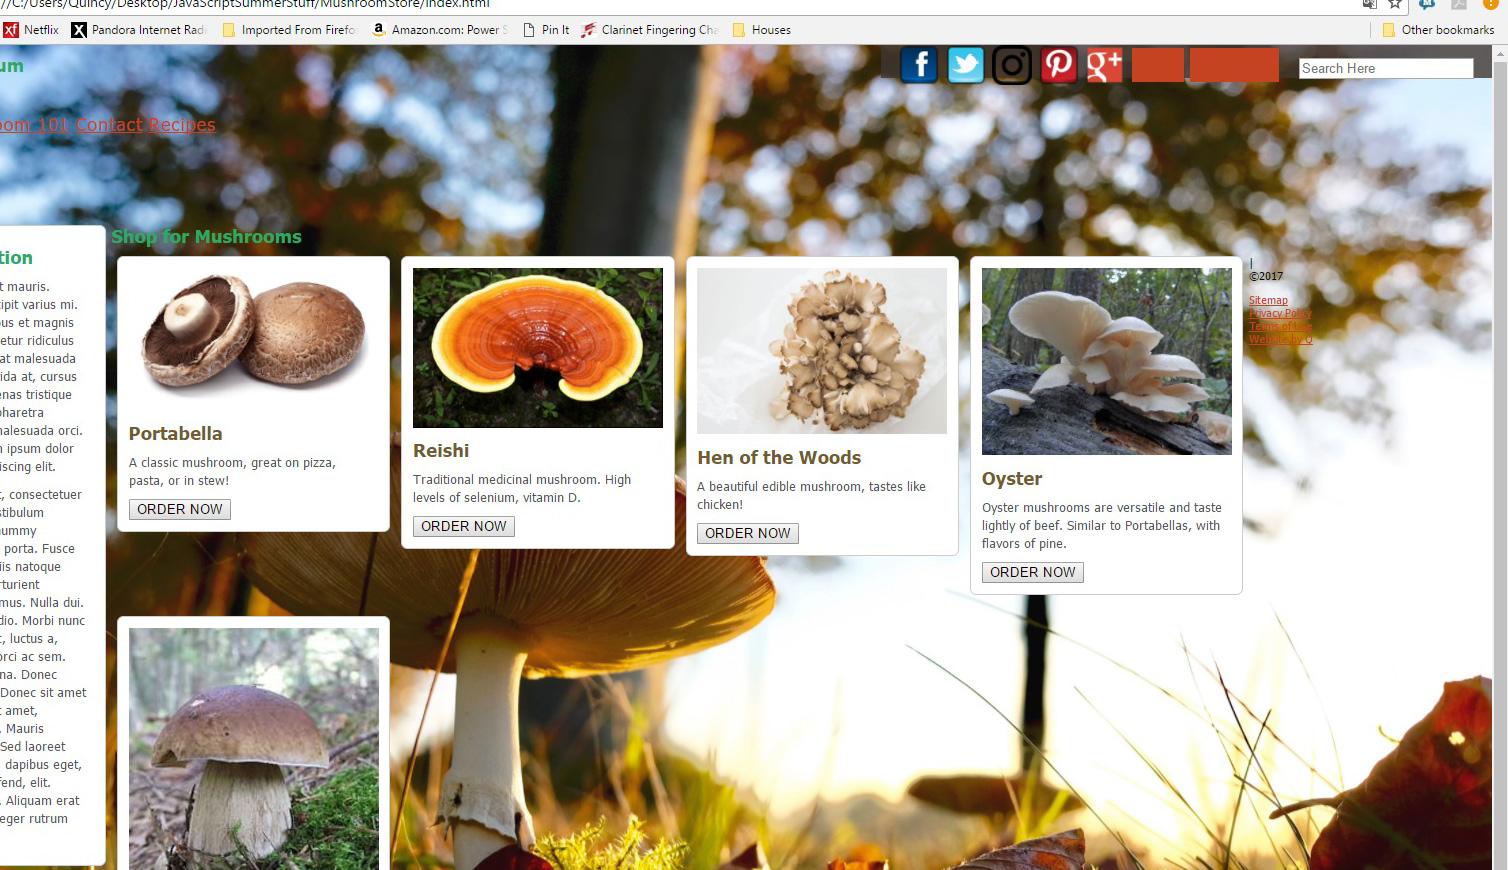
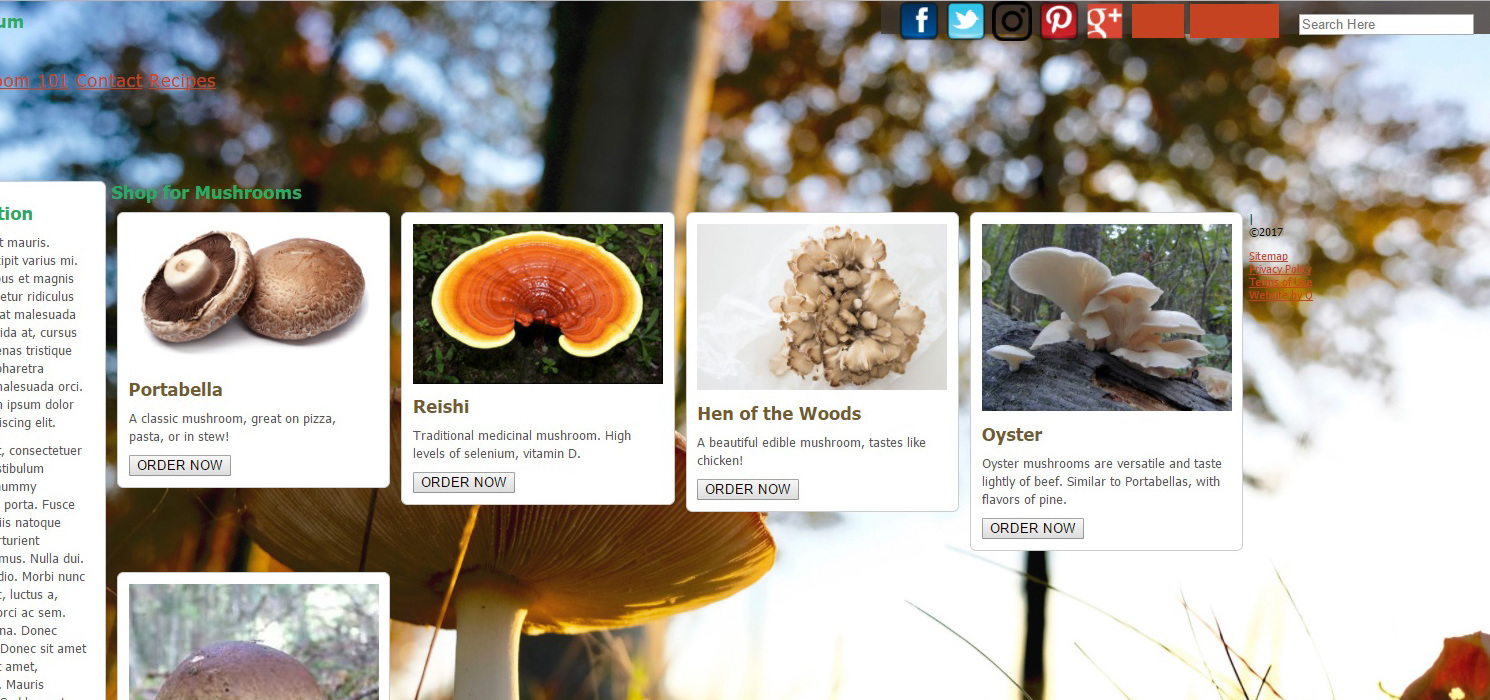
QW changed images, fixed garbage styling

diff --git a/index.html b/index.html
@@ -76,17 +76,17 @@
 			</header>
 			<div class="container">
 				<div class="row">
-					<div id="contactbox" class="col-xs-8 col-md-4 text-center">
+					<div id="contactbox" class="col-xs-12 col-md-4 text-center">
 						<section class="box style1">
 							<span class="icon featured fa-comments-o"></span>
 							<h3>Contact Me</h3>
 							<p>
 								<a target="_blank" href="https://www.linkedin.com/in/quincy-williams-9283b2142/">More information about me is available at LinkedIn.</a>
 							</p>
+							<div>
+								<a target="_blank" href="https://drive.google.com/file/d/0B8ltF_20KLaKNW9yVEN5enRWRFE/view?usp=sharing" class="button big scrolly">My résumé, courtesy of Google Docs.</a>
+							</div>
 						</section>
-						<div>
-							<a target="_blank" href="https://drive.google.com/file/d/0B8ltF_20KLaKNW9yVEN5enRWRFE/view?usp=sharing" class="button big scrolly">My CV, courtesy of Google Docs.</a>
-						</div>
 						<!--<div class="4u 12u(mobile)">
 								<section class="box style1">
 									<span class="icon featured fa-camera-retro"></span>
@@ -123,12 +123,12 @@
 					<div class="3u 12u(mobile)">
 						<article class="box style2">
 							<a target="_blank" href="https://split-500b7.firebaseapp.com" class="image featured">
-								<img src="images/dumpd.jpg" alt="DUMPD" />
+								<img style="height:20%;" src="images/dumpd.jpg" alt="DUMPD" />
 							</a>
 							<h3>
 								<a target="_blank" href="https://split-500b7.firebaseapp.com">DUMPD</a>
 							</h3>
-							<p>A text generator built using Angular 4. Make an account, make messages!</p>
+							<p>Built with Angular 4. Make an account, make messages!</p>
 						</article>
 					</div>
 					<div class="3u 12u(mobile)">
@@ -150,7 +150,18 @@
 							<h3>
 								<a href="https://quiggity.github.io/">Web-based Storefront</a>
 							</h3>
-							<p>An elementary website showing a solid grasp of HTML and CSS.</p>
+							<p>A basic website built with HTML and CSS.</p>
+						</article>
+					</div>
+					<div id="mean" class="3u 12u(mobile)">
+						<article class="box style2">
+							<a target="_blank" href="https://reduxhomepage.herokuapp.com/" class="image featured">
+								<img src="images/reduxpage.jpg" alt="bukkit" />
+							</a>
+							<h3>
+								<a target="_blank" href="https://reduxhomepage.herokuapp.com/">MEAN Application</a>
+							</h3>
+							<p>A MEAN application with CRUD functionality.</p>
 						</article>
 					</div>
 					<!-- <div class="3u 12u(mobile)">
@@ -186,44 +197,32 @@
 							<h3>
 								<a target="_blank" href="https://newsreader-qw.herokuapp.com/">News Reader</a>
 							</h3>
-							<p>Utilizing an API courtesy of newsapi.org, this application collates information from The Wall Street Journal's online
-								portal.
-							</p>
+							<p>Uses newsapi.org to collate information from The Wall Street Journal</p>
 						</article>
 					</div>
 					<div class="3u 12u(mobile)">
 						<article class="box style2">
 							<a target="_blank" href="http://qw-jquery-friends.herokuapp.com/" class="image featured">
-								<img class="friendImg" src="images/friendList.jpg" alt="" />
+								<img style="height:80%; overflow:hidden;" class="friendImg" src="images/friendList.jpg" alt="" />
 							</a>
 							<h3>
 								<a target="_blank" href="http://qw-jquery-friends.herokuapp.com/">Friend List</a>
 							</h3>
-							<p>An introductory application to asynchronous processing using HTTP commands.</p>
+							<p>An introduction to asynchronous processing using HTTP commands.</p>
 						</article>
 					</div>
 					<div class="3u 12u(mobile)">
 						<article class="box style2">
 							<a target="_blank" href="https://github.com/Dagzy/JS-Library" class="image featured">
-								<img src="images/curlybracket.png" alt="Curly Brackets" />
+								<img src="images/curlybracket.jpg" alt="Curly Brackets" />
 							</a>
 							<h3>
 								<a target="_blank" href="https://github.com/Dagzy/JS-Library">Javascript Library</a>
 							</h3>
-							<p>My personal library of Javascript objects.</p>
+							<p>My personal JavaScript library.</p>
 						</article>
 					</div>
-					<div id="mean" class="3u 12u(mobile)">
-						<article class="box style2">
-							<a target="_blank" href="https://reduxhomepage.herokuapp.com/" class="image featured">
-								<img src="images/reduxpage.jpg" alt="bukkit" />
-							</a>
-							<h3>
-								<a target="_blank" href="https://reduxhomepage.herokuapp.com/">MEAN Application</a>
-							</h3>
-							<p>A MEAN application with CRUD functionality.</p>
-						</article>
-					</div>
+
 					<!-- <div id="workoutlog" class="3u 12u(mobile)">
 								<article class="box style2">
 									<a target="_blank" href="https://ngworkoutclient.herokuapp.com" class="image featured"><img src="images/iwrkout.jpg" alt="bukkit" /></a>

diff --git a/assets/css/main.css b/assets/css/main.css
@@ -2105,18 +2105,18 @@
 				}
 
 	}
-	#contactbox {
+	/* #contactbox {
 		float: right;
 		position: relative;
 		left: -33%;
-	}
+	} */
 /*	.friendImg {
 		clip: auto ;
 	}*/
-	#mean{
+	/* #mean{
 		margin-top: -355px;
-	}
+	} */
 
-	#workoutlog{
+	/* #workoutlog{
 		margin-top: -250px;
-	}
+	} */
